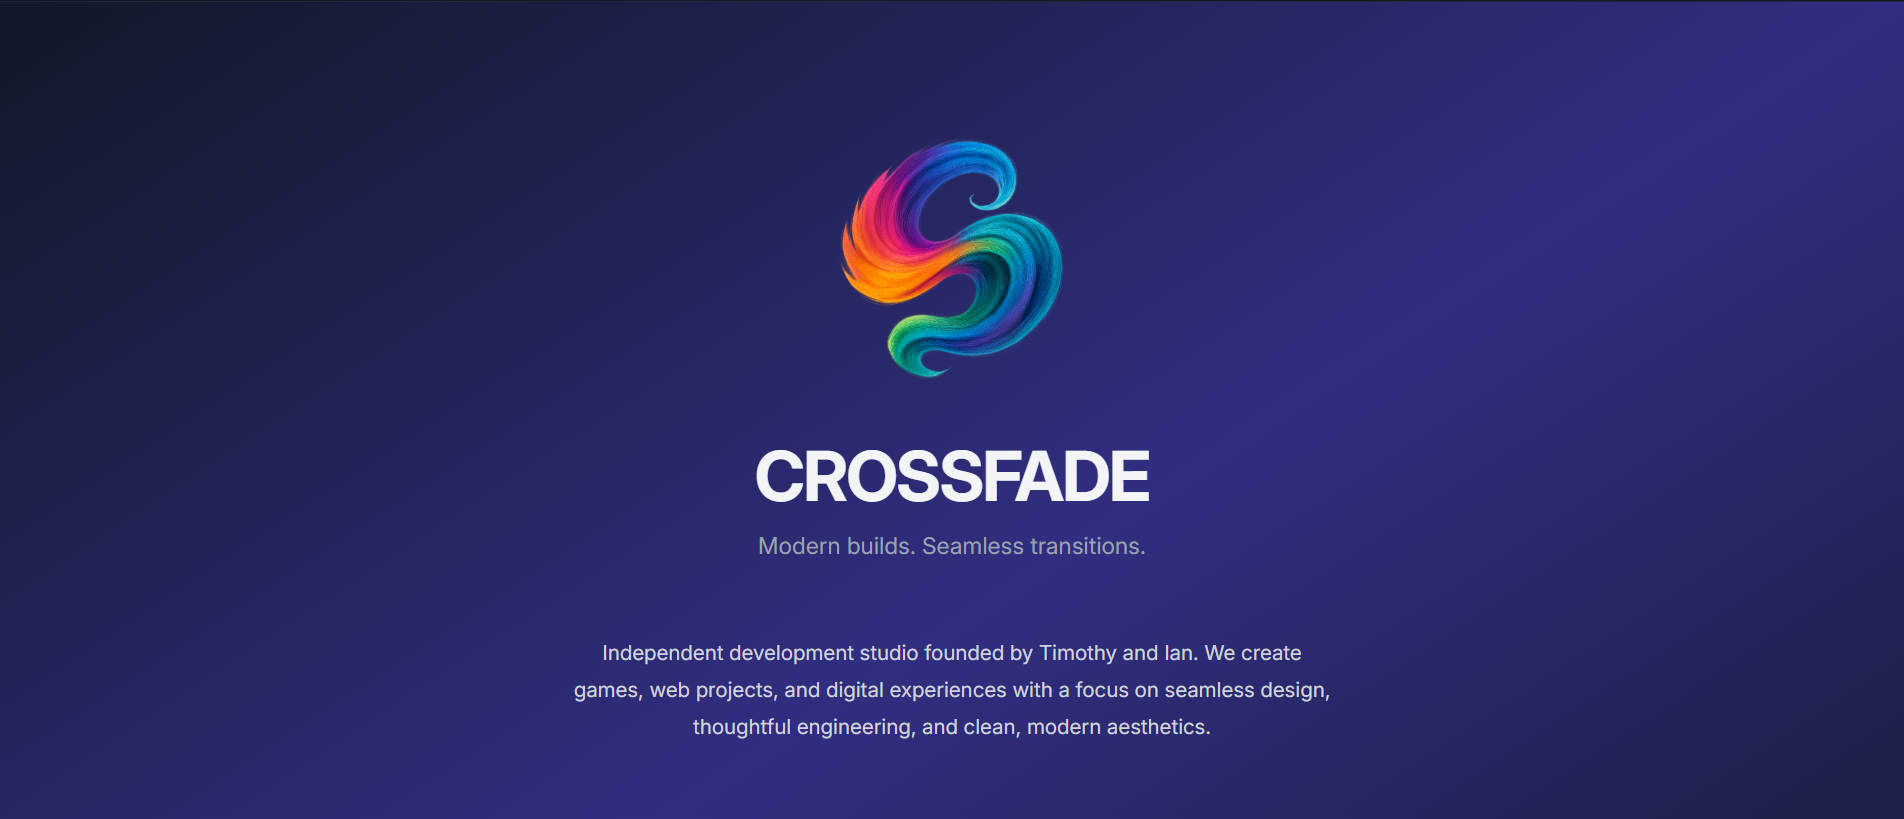
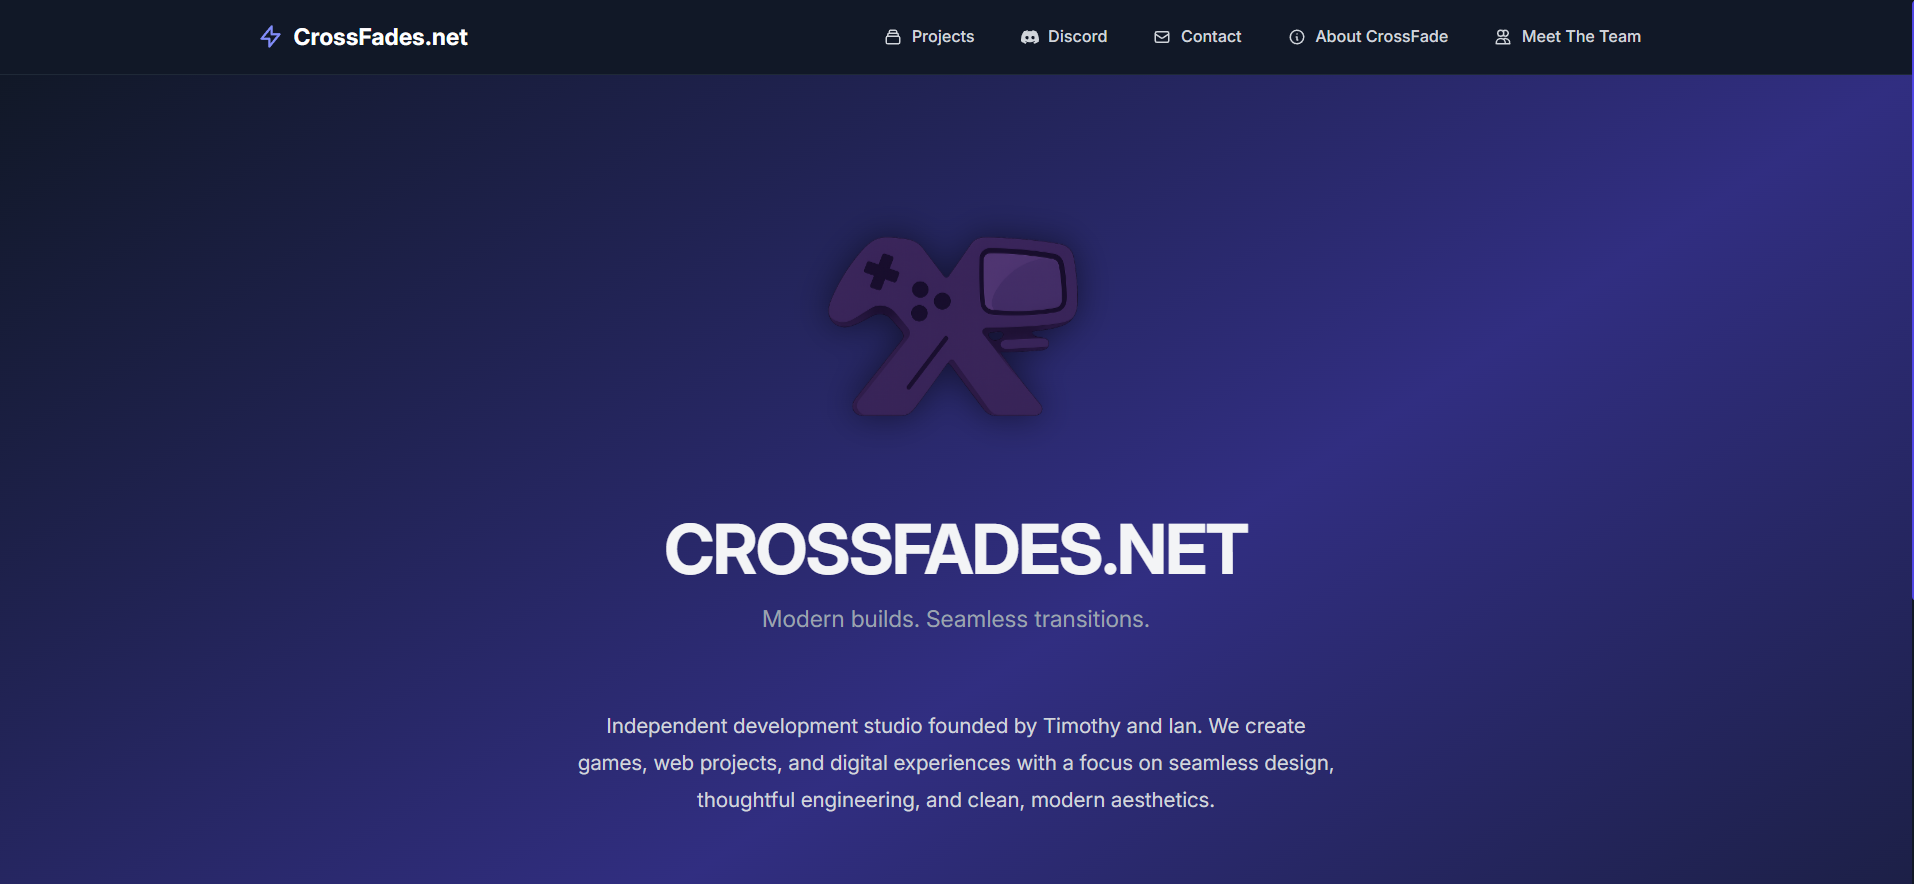
more disco stuff

diff --git a/src/content/config.ts b/src/content/config.ts
@@ -136,6 +136,15 @@ const portfolio = defineCollection({
         github: z.string().optional(),
         technologies: z.array(z.string()).optional(),
         content: z.array(z.string()).optional(),
+        image: z.string().optional(),
+        images: z.array(
+          z.object({
+            src: z.string(),
+            alt: z.string().default(""),
+            caption: z.string().optional()
+          })
+        ).optional(),
+        status: z.string().optional(),
       }),
     ),
   }),

diff --git a/src/content/portfolio/-index.md b/src/content/portfolio/-index.md
@@ -1,34 +1,60 @@
 ---
 title: Portfolio
-description: Jane Doe's projects and programs.
+description: Tim Suwityarat's projects and digital solutions.
 
 projects:
   - title: "CHS-Awareness.com"
     technologies:
       - "Astro"
-      - "React"
+      - "TypeScript"
       - "TailwindCSS"
-      - "Cloudflare Pages"
     image: "chsawareness-site.png"
+    status: "In Progress"
     content:
-      - "CHS-Awareness.com is a comprehensive resource dedicated to educating and supporting individuals affected by Cannabinoid Hyperemesis Syndrome (CHS). As the sole developer, curator, and author, I built this platform from the ground up using Astro, React, and TailwindCSS, deploying it through Cloudflare Pages for optimal performance and reliability."
-      - "The site provides compassionate, stigma-free information about CHS, including detailed explanations of symptoms, triggers, and recovery strategies. Through careful content curation and an empathetic approach to medical information, the platform helps demystify CHS while offering practical support for those affected by the condition. The responsive, user-friendly design ensures that vital information is accessible to everyone, regardless of their device or technical expertise."
+      - "The official website for CHS-Awareness, providing compassionate, stigma-free information and support for those navigating Cannabinoid Hyperemesis Syndrome (CHS). As the lead developer, I built this platform to help demystify CHS while offering practical support for those affected by the condition."
+      - "The site provides educational resources, symptom management strategies, and support information in an accessible format. The responsive, user-friendly design ensures that vital information is accessible to everyone, regardless of their device or technical expertise."
+
+  - title: "SeshTracker"
+    technologies:
+      - "Astro"
+      - "TypeScript"
+      - "TailwindCSS"
+    image: "seshtracker-site.png"
+    status: "In Progress"
+    content:
+      - "A privacy-focused cannabis consumption tracking platform that allows users to monitor usage patterns, effects, and related wellness metrics. The application emphasizes data privacy while providing valuable insights for medical cannabis patients and recreational users."
+      - "Features include consumption logs, dosage tracking, and pattern recognition to help users make informed decisions about their usage."
 
   - title: "CrossFades.net"
     technologies:
-      - "Game Development"
-      - "Web Development"
-      - "Digital Design"
+      - "Remix"
+      - "TypeScript"
+      - "TailwindCSS"
     image: "crossfades-site.png"
+    status: "In Progress"
     content:
-      - "CrossFades.net is an independent development studio founded by Timothy and Ian. We create games, web projects, and digital experiences with a focus on seamless design, thoughtful engineering, and clean, modern aesthetics."
+      - "The official website for CrossFades, my indie development studio exploring the intersection of games, web, and digital experiences. Built with Remix and TailwindCSS for optimal performance and flexibility."
+      - "This platform showcases our portfolio, team members, and creative vision while serving as a hub for our various digital initiatives."
 
-  - title: "LTC-Contracting.com"
+  - title: "EB Marine LLC"
     technologies:
       - "Web Development"
-      - "Construction"
-      - "Business Solutions"
-    image: "ltc-site.png"
+      - "Business Website"
+      - "Marine Services"
+    image: "eb-marine-site.png"
+    status: "In Progress"
     content:
-      - "The official website for LTC Contracting, a construction company that specializes in residential and commercial roofing."
+      - "Professional outboard motor service, repair, and parts sales website for EB Marine LLC in Warwick, RI. Features boat and motor storage solutions, service scheduling, and parts inventory."
+      - "Designed with a focus on clear navigation and service information to help marine customers find the specific maintenance and repair options they need."
+
+  - title: "LTC Contracting"
+    technologies:
+      - "Astro"
+      - "TypeScript"
+      - "TailwindCSS"
+    image: "ltc-site.png"
+    status: "Completed"
+    content:
+      - "The official website for LTC Contracting, a construction company specializing in residential and commercial contracting. This completed project showcases their services, previous work, and contact information."
+      - "The site features a clean, professional design that instills confidence in potential customers while making it easy to request quotes and services."
 ---

diff --git a/src/content/about/-index.md b/src/content/about/-index.md
@@ -5,8 +5,82 @@ image: "@assets/profile/tim-suwityarat.png"
 draft: false
 ---
 
-I'm a US-based Solutions Engineer and indie developer passionate about creating meaningful digital experiences. At TeamDynamix, I specialize in technical enablement and solution demonstrations. Through my indie development studio Crossfades.net, I build web projects focused on health, wellness, and community support.
+## Professional Summary
 
-My notable projects include CHS-Awareness.com, providing compassionate resources for Cannabinoid Hyperemesis Syndrome, Sesh-Tracker.com for privacy-focused wellness tracking, and Tim's LifeOS, a personal digital command center. I leverage modern web technologies like React, TypeScript, and Cloudflare's edge platform to create accessible, user-focused solutions.
+Solutions Engineer and former Senior Information Technologist with 7+ years of experience spanning ITSM administration, pre-sales solution design, and full-stack web development. Adept at translating complex requirements into engaging demos and scalable architectures that drive customer success and operational efficiency.
 
-Beyond development, I'm deeply involved in fostering inclusive online communities through Discord management and organizing various gaming and social events. My development style emphasizes clean design, thoughtful engineering, and a touch of playfulness inspired by indie games.
+## Professional Experience
+
+### Solutions Engineer
+#### TeamDynamix | Feb 2024 – Present
+
+- Partner with account executives to deliver tailored pre-sales demonstrations across ITSM, PPM, and iPaaS product lines
+- Translate customer business goals into solution architectures and implementation roadmaps
+- Develop demo scripts and automation workflows that elevate prospect engagement
+- Serve as subject-matter expert for TeamDynamix solution ecosystem
+
+### Senior Information Technologist
+#### Community College of Rhode Island | Aug 2021 – Feb 2024
+
+- Lead Administrator for TeamDynamix, overseeing platform maintenance and automation rules
+- Integrated DUO Authentication campus-wide, strengthening security posture
+- Redesigned IT Help Desk support website, improving UI and accessibility
+- Built workflows for access requests, streamlining service delivery
+
+### IT Support Technician
+#### Community College of Rhode Island | Oct 2019 – Aug 2021
+
+- Resolved IT issues using ticket-tracking tools, improving user satisfaction
+- Provided in-person and remote support to faculty, staff, and students
+- Authored 22 knowledge-base articles for self-service support
+
+### Help Desk Associate
+#### YMCA | Sep 2018 – May 2020
+
+- Monitored and tracked repairs and updates through a ticket system
+- Troubleshot computer systems and resolved basic technical issues
+
+## Technical Skills
+
+- TeamDynamix Administration
+- Pre-sales Solution Design
+- API & iPaaS Integrations
+- DUO MFA & Security
+- ITSM / Help-Desk Operations
+- Technical Documentation
+- Web Development & UI/UX
+- Product Demonstration
+
+## Education & Certifications
+
+### Associate of Science, Computer Studies
+#### Community College of Rhode Island | May 2021
+
+### MEDDPICC Masterclass
+#### MEDDICC | June 2024
+
+### Demo2Win!
+#### 2Win! | April 2024
+
+### HDI Support Center Analyst
+#### HDI | May 2022
+
+## Notable Projects
+
+### CHS-Awareness.com
+A compassionate resource providing stigma-free information and support for those navigating Cannabinoid Hyperemesis Syndrome (CHS). Built with Astro, TypeScript, and TailwindCSS.
+
+### SeshTracker
+A privacy-focused platform for tracking cannabis consumption patterns and wellness data. Built with Astro, TypeScript, and TailwindCSS to ensure a responsive, user-friendly experience.
+
+### CrossFades.net
+The official website for my indie development studio, built with Remix and TailwindCSS. Showcases our collective work at the intersection of games, web, and digital experiences.
+
+### EB Marine LLC
+Professional outboard motor service, repair, and parts sales website for EB Marine LLC in Warwick, RI. Features boat and motor storage solutions.
+
+### LTC Contracting
+Business website for a construction company specializing in residential and commercial contracting, built with Astro, TypeScript, and TailwindCSS.
+
+## Community Involvement
+Beyond development, I'm deeply involved in fostering inclusive online communities through Discord management and organizing various gaming and social events.
